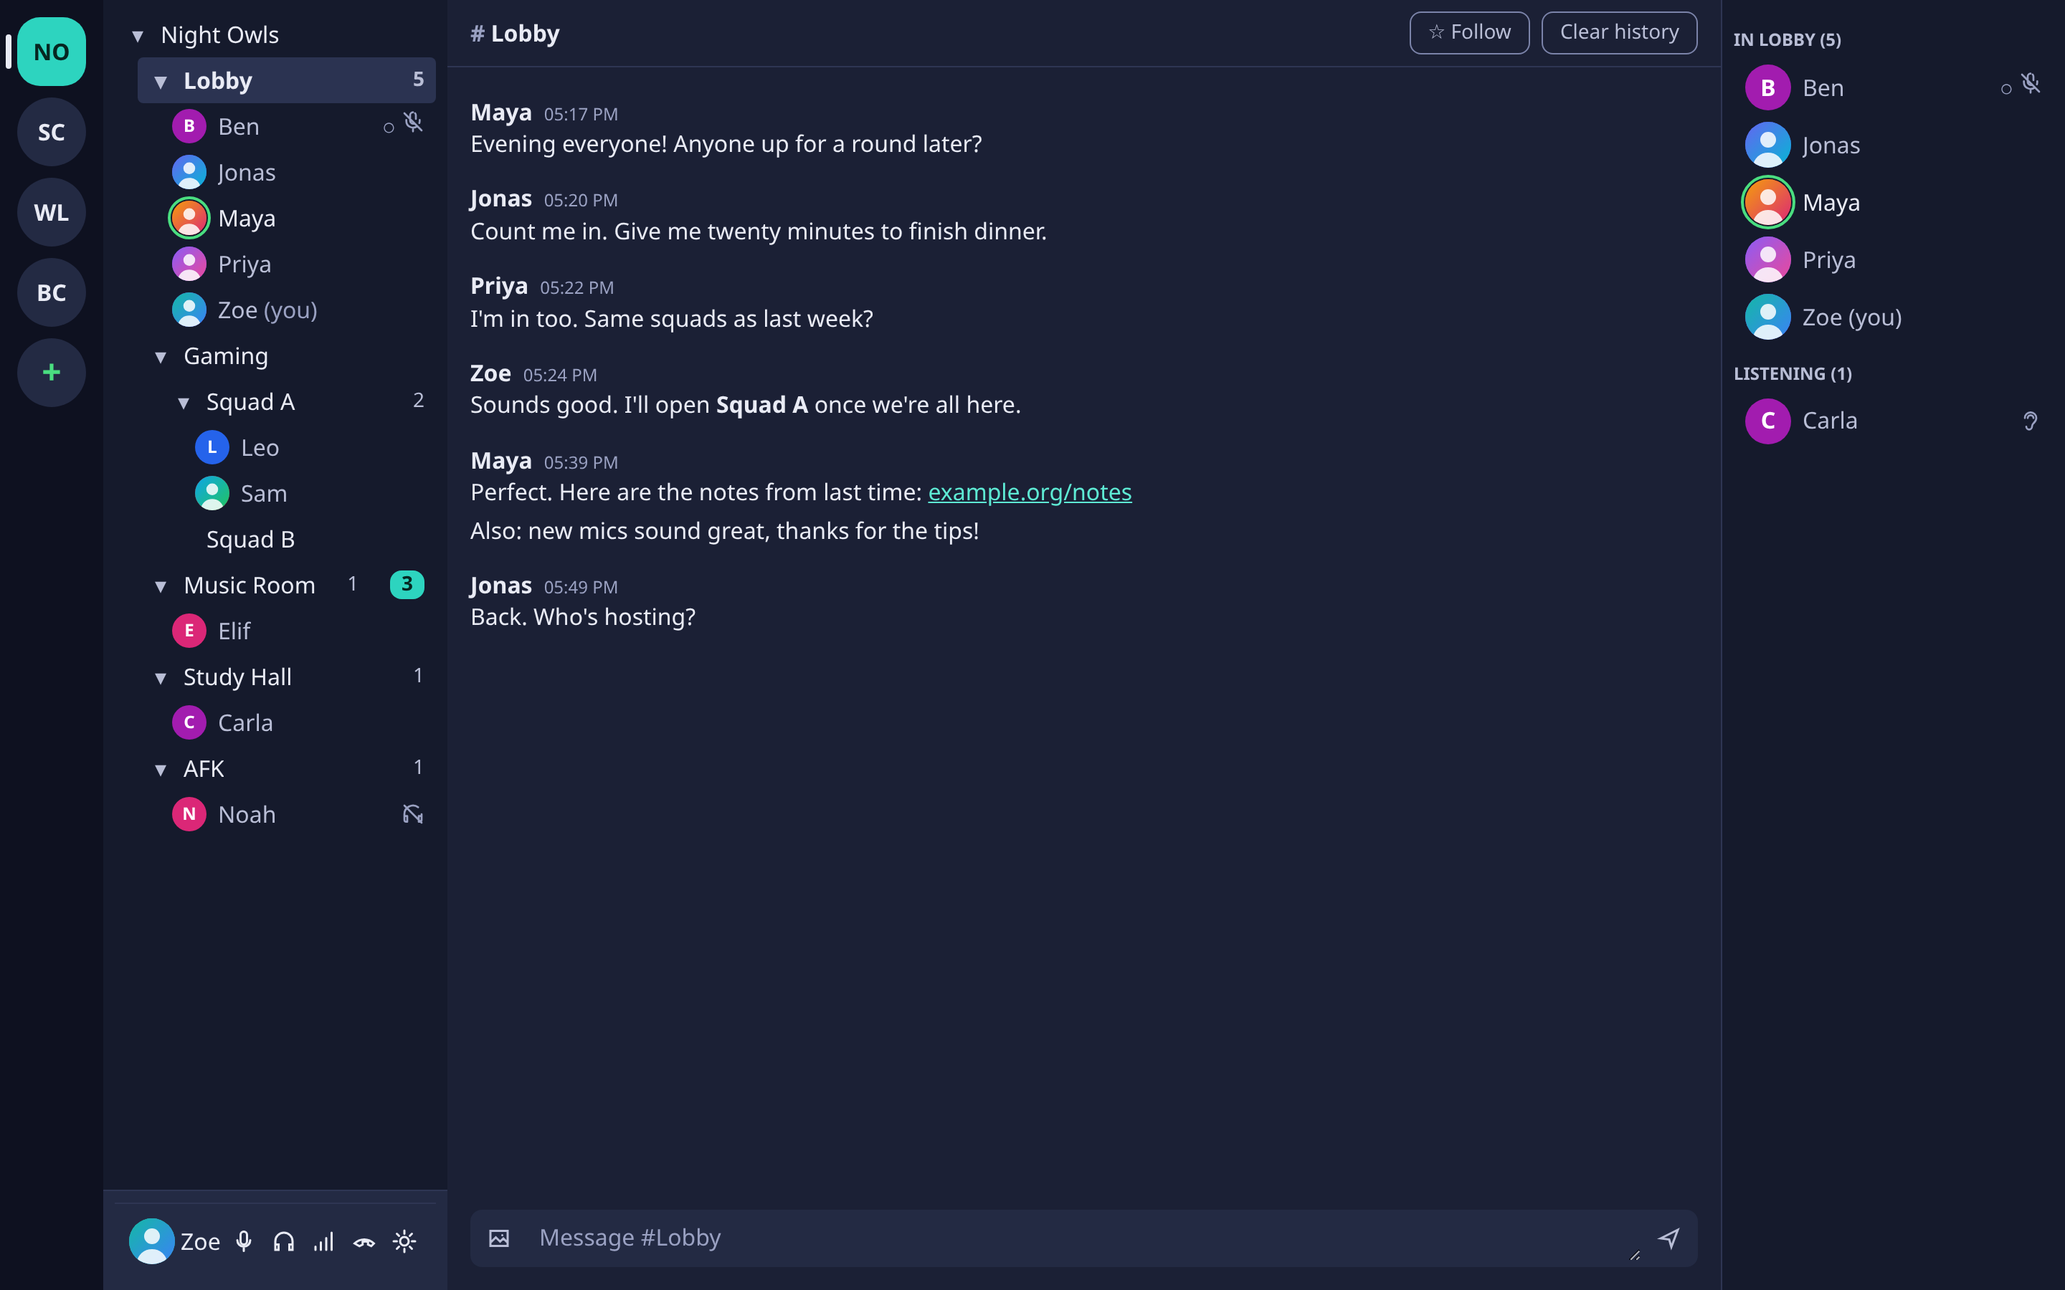
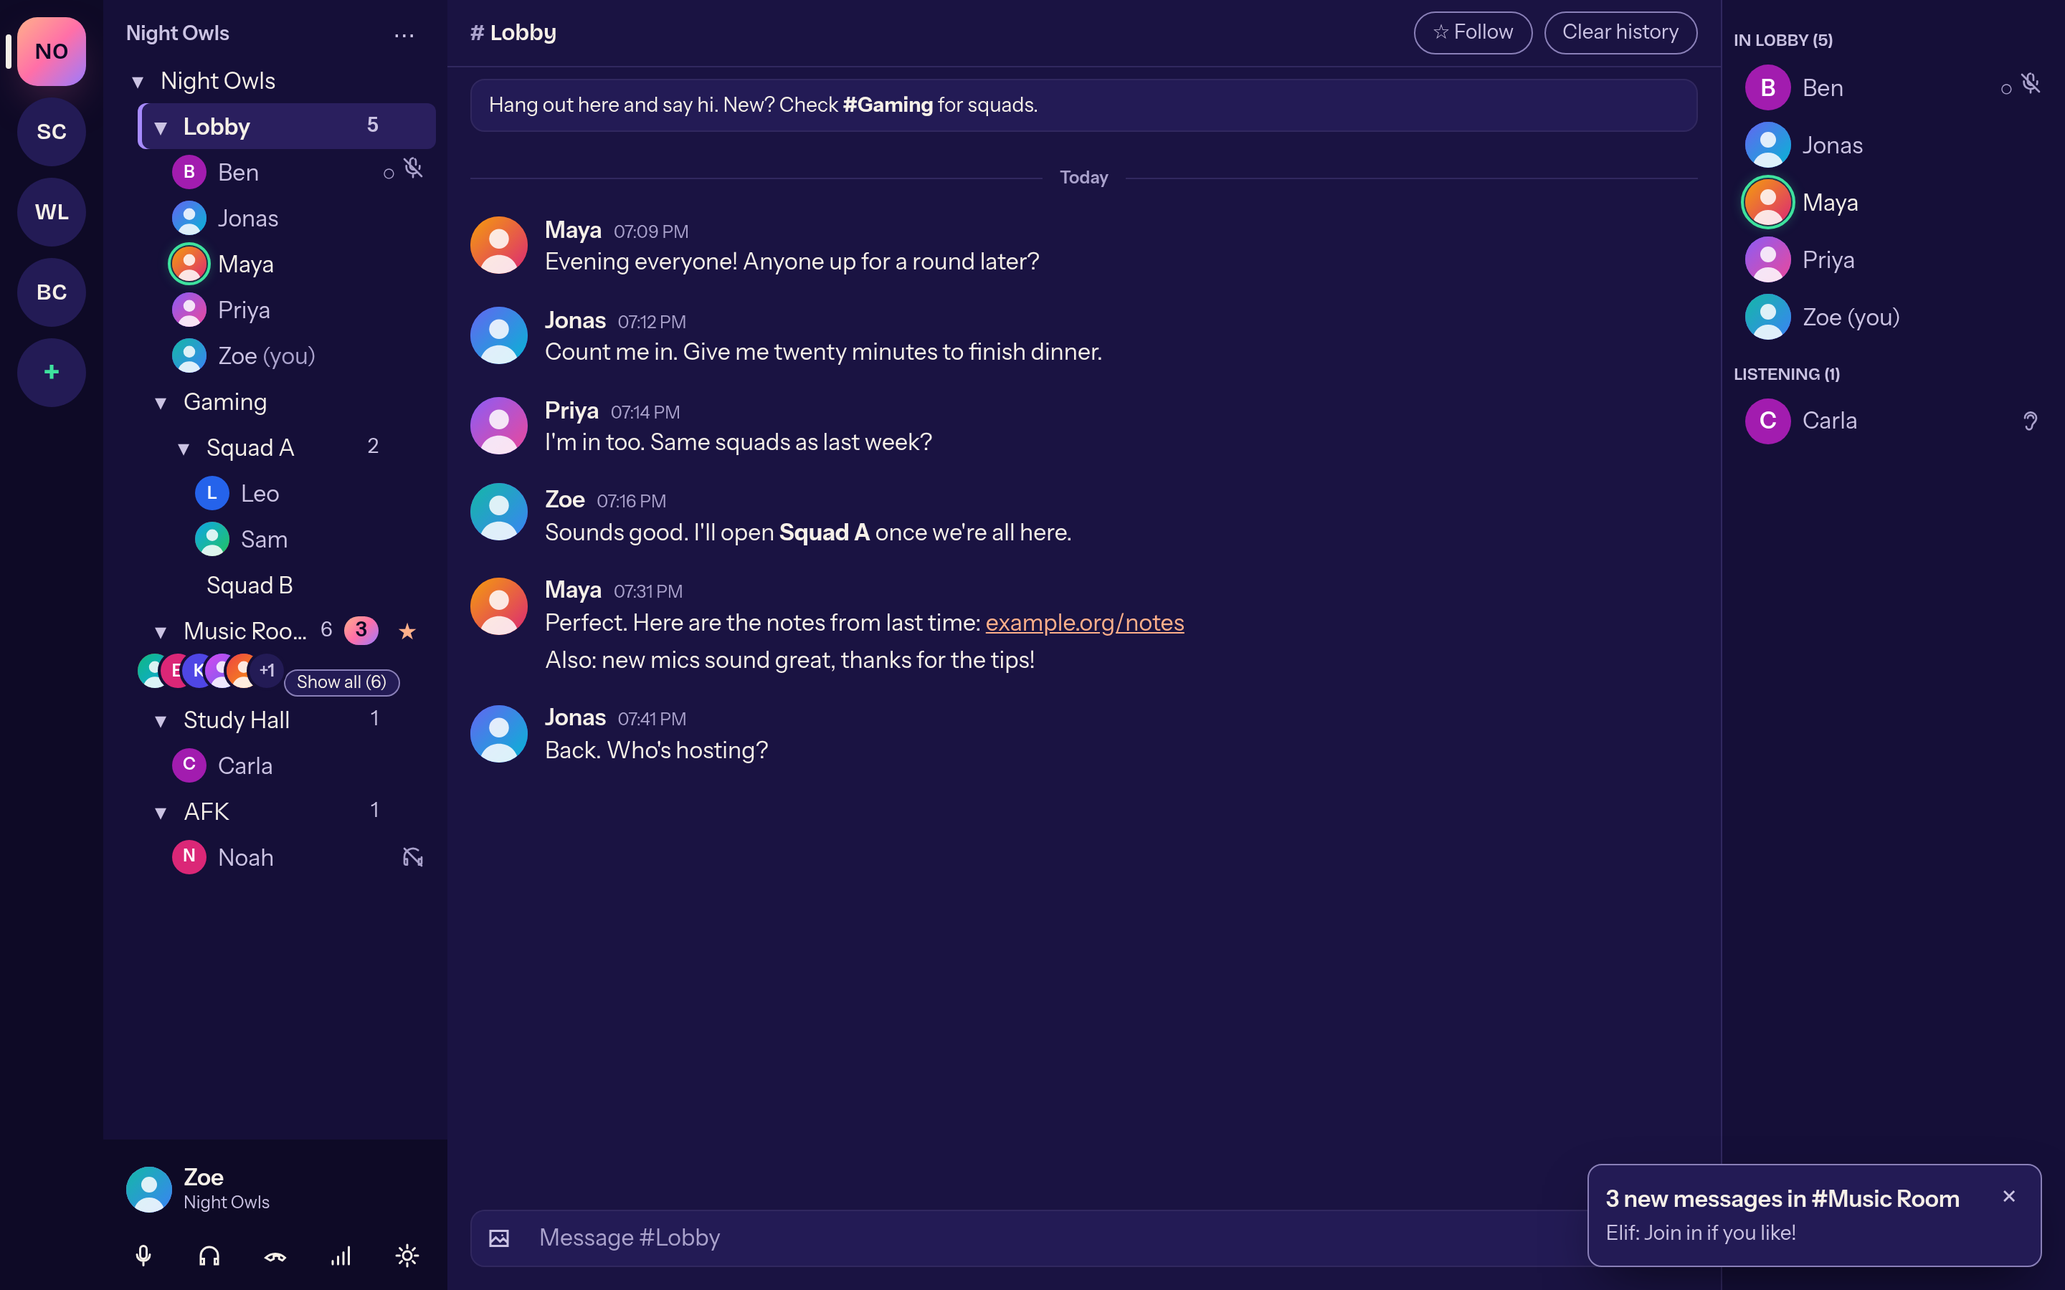
feat: new screenshots and features from the latest app build
Follow by star, notifications, Discord-style and compact chat, avatar
stack, rejoin after restart and start at login. Downloads point to the
Releases page now that test builds no longer run on branch pushes.

diff --git a/src/i18n/en.ts b/src/i18n/en.ts
@@ -6,7 +6,7 @@ export const en: Dict = {
   meta: {
     title: "Mumcord — modern voice chat for any Mumble server",
     description:
-      "Mumcord is a free, Discord-style desktop client for Mumble servers: follow channels, AI noise suppression, push-to-talk even on Wayland. For Linux, Windows and macOS. Open source, no telemetry.",
+      "Mumcord is a free, Discord-style desktop client for Mumble servers: follow channels, notifications, AI noise suppression, push-to-talk even on Wayland. For Linux, Windows and macOS. Open source, no telemetry.",
   },
   nav: {
     features: "Features",
@@ -34,6 +34,7 @@ export const en: Dict = {
     "No server changes",
     "Mumble 1.4 and newer",
     "Encrypted voice",
+    "Light & dark",
     "No telemetry",
     "Linux X11 & Wayland",
     "Windows 10/11",
@@ -61,19 +62,49 @@ export const en: Dict = {
         id: "follow",
         title: "Follow channels",
         body:
-          "Read a channel's chat without joining it. Followed channels show unread messages as a badge. Single click reads, double click joins.",
+          "Click the star and you read along in a channel without joining it — or follow all of them from the server menu. Unread messages show up as a badge.",
       },
       {
         id: "audio",
-        title: "Clean sound out of the box",
+        title: "Clear sound out of the box",
         body:
-          "AI noise suppression, echo cancellation and automatic gain are on. Bitrate follows the network: down when packets drop, back up when it recovers.",
+          "AI noise suppression, echo cancellation and automatic gain are on. The bitrate follows your network: down when packets get lost, back up when it recovers.",
       },
       {
         id: "trust",
-        title: "Certificates, made clear",
+        title: "Certificates, made readable",
         body:
           "On first connect you see the server's fingerprint and decide. If it changes later, Mumcord stops with a clear warning.",
+      },
+      {
+        id: "chat",
+        title: "Discord-style chat",
+        body:
+          "Avatars, grouped messages and Markdown, with a compact layout for busy channels. The channel description and welcome message are pinned on top; images are scaled to the server's limit.",
+      },
+      {
+        id: "notify",
+        title: "Notifications, your way",
+        body:
+          "New messages as a small in-app pop-up, a system notification, both or off. Plus short, quiet sounds per event — including when you join and hang up.",
+      },
+      {
+        id: "crowd",
+        title: "Big servers stay tidy",
+        body:
+          "From six people on, avatars stack up under the channel name. Hover for a profile preview, and drag the channel and member lists to the width you like.",
+      },
+      {
+        id: "people",
+        title: "Volume per person",
+        body:
+          "0 to 200 %, local mute. Remembered by the person's certificate — even after they rename.",
+      },
+      {
+        id: "reconnect",
+        title: "Back where you were",
+        body:
+          "After a dropout Mumcord restores your channel, mute/deafen state and followed channels. After a restart it offers to rejoin your last voice channel.",
       },
       {
         id: "identity",
@@ -82,20 +113,10 @@ export const en: Dict = {
           "The client certificate lives in your system's secure storage. Import from the official Mumble client via PKCS#12, export any time.",
       },
       {
-        id: "chat",
-        title: "Chat with Markdown",
+        id: "setup",
+        title: "Ready in a minute",
         body:
-          "Bold, italic, code, links. Paste or drop images — they're scaled to the server's limit. Everything from the server is sanitized.",
-      },
-      {
-        id: "people",
-        title: "Volume per person",
-        body: "0 to 200 %, local mute. Remembered by the person's certificate — even after a rename.",
-      },
-      {
-        id: "reconnect",
-        title: "Back where you were",
-        body: "After a dropped connection Mumcord restores your channel, mute/deafen state and followed channels.",
+          "The setup wizard only asks for identity, microphone and talk mode. If you like, Mumcord opens mumble:// links and starts when you log in.",
       },
       {
         id: "a11y",
@@ -139,13 +160,17 @@ export const en: Dict = {
     label: "04 — Take a tour",
     title: "A window that feels familiar.",
     items: [
-      { src: "wizard-1-identity", caption: "Setup in about a minute: identity, microphone, talk mode." },
-      { src: "wizard-2-microphone", caption: "A mic test that plays your own voice back." },
-      { src: "follow-unread-badge", caption: "Followed channels with an unread badge." },
-      { src: "dialog-certificate-trust", caption: "Trust on first use, with fingerprint." },
-      { src: "settings-03-voice-dark", caption: "Voice activation or push-to-talk." },
+      { src: "wizard-1-identity", caption: "Set up in about a minute: identity, microphone, talk mode." },
+      { src: "wizard-3-talk-mode", caption: "Voice activation or push-to-talk, mumble:// links and start at login." },
+      { src: "follow-unread-badge", caption: "Follow channels with a star, unread messages as a badge." },
+      { src: "notification-toast", caption: "A small pop-up announces new messages from other channels." },
+      { src: "chat-compact", caption: "Compact chat layout: time, name and message on one line." },
+      { src: "channel-avatar-stack", caption: "Crowded channels show a stack of avatars instead of a long list." },
+      { src: "banner-rejoin", caption: "After a restart, back into your last voice channel." },
+      { src: "dialog-certificate-trust", caption: "Trust on first contact, with the fingerprint." },
+      { src: "settings-07-sounds-notifications-dark", caption: "Sounds and notifications, set per event." },
       { src: "settings-02-audio-dark", caption: "Switch devices without reconnecting." },
-      { src: "main-light", caption: "Light theme, fully supported." },
+      { src: "main-light", caption: "A light theme that's fully there." },
       { src: "settings-06-language-dark", caption: "English, German, Spanish." },
     ],
   },
@@ -155,10 +180,10 @@ export const en: Dict = {
     body: "The roadmap is a proposal and may change. Mobile apps and a web version are not planned. Nothing server-side will ever be required.",
     now: "now",
     steps: [
-      { tag: "Epic 1 · 1a", title: "Everyday client", body: "Everything on this page. Unsigned test builds.", now: true },
+      { tag: "Epic 1 · 1a", title: "Everyday client", body: "Everything on this page. Unsigned builds for Linux, Windows and macOS.", now: true },
       { tag: "Epic 1 · 1b", title: "Positional audio & overlay", body: "Mumble Link with the official game plugins, floating overlay." },
       { tag: "Epic 2", title: "Several servers at once", body: "Read along on all of them, talk on one." },
-      { tag: "Epic 3", title: "Comfort", body: "Global hotkeys, tray menu, desktop notifications, whisper, server browser." },
+      { tag: "Epic 3", title: "Comfort", body: "Global hotkeys, full tray menu, import from the official client, whisper, server browser." },
       { tag: "Epic 4", title: "Admin", body: "ACLs, bans, channel management." },
       { tag: "Epic 5", title: "Distribution", body: "Signed installers, auto-update, opt-in crash reports." },
     ],
@@ -173,12 +198,12 @@ export const en: Dict = {
     allReleases: "All releases",
     checksums: "Verify SHA256SUMS",
     noRelease:
-      "There's no official release yet. Unsigned test builds are produced on every push by GitHub Actions — log in, open the latest successful “Test builds” run and grab the artifact for your system.",
-    testBuilds: "Test builds on GitHub Actions",
+      "The first release isn't published yet. Releases are built from version tags, tested on fresh machines and then appear on GitHub — this page picks them up automatically.",
+    testBuilds: "Releases on GitHub",
     howTo: "Installation guide",
     platforms: {
       windows: { name: "Windows", sub: "10 / 11 · installer (.exe)", warn: "SmartScreen warns about an unknown publisher: “More info” → “Run anyway”." },
-      macos: { name: "macOS", sub: "Apple Silicon & Intel · .dmg", warn: "Gatekeeper blocks the first launch: right-click → “Open”, or allow it under Privacy & Security." },
+      macos: { name: "macOS", sub: "Universal, Apple Silicon & Intel · .dmg", warn: "Gatekeeper blocks the first launch: right-click → “Open”, or allow it under Privacy & Security." },
       linux: { name: "Linux", sub: "X11 & Wayland · AppImage", warn: "chmod +x Mumcord_*.AppImage — needs WebKitGTK 4.1 and a Secret Service keyring." },
     },
     unsigned: "Builds are unsigned for now. Signed installers arrive with Epic 5.",

diff --git a/src/i18n/de.ts b/src/i18n/de.ts
@@ -4,7 +4,7 @@ export const de = {
   meta: {
     title: "Mumcord — moderner Voice-Chat für jeden Mumble-Server",
     description:
-      "Mumcord ist ein freier Desktop-Client im Discord-Stil für Mumble-Server: Kanäle folgen, KI-Rauschunterdrückung, Push-to-Talk auch unter Wayland. Für Linux, Windows und macOS. Open Source, ohne Telemetrie.",
+      "Mumcord ist ein freier Desktop-Client im Discord-Stil für Mumble-Server: Kanälen folgen, Benachrichtigungen, KI-Rauschunterdrückung, Push-to-Talk auch unter Wayland. Für Linux, Windows und macOS. Open Source, ohne Telemetrie.",
   },
   nav: {
     features: "Funktionen",
@@ -32,6 +32,7 @@ export const de = {
     "Kein Server-Umbau",
     "Mumble 1.4 und neuer",
     "Verschlüsselte Sprache",
+    "Hell & dunkel",
     "Keine Telemetrie",
     "Linux X11 & Wayland",
     "Windows 10/11",
@@ -60,7 +61,7 @@ export const de = {
         id: "follow",
         title: "Kanälen folgen",
         body:
-          "Lies den Chat eines Kanals, ohne beizutreten. Gefolgte Kanäle zeigen ungelesene Nachrichten als Badge. Einfacher Klick liest, Doppelklick tritt bei.",
+          "Ein Klick auf den Stern, und du liest einen Kanal mit, ohne beizutreten — oder folgst über das Server-Menü gleich allen. Ungelesenes steht als Badge dran.",
       },
       {
         id: "audio",
@@ -75,16 +76,22 @@ export const de = {
           "Beim ersten Verbinden siehst du den Fingerabdruck des Servers und entscheidest. Ändert er sich später, stoppt Mumcord mit einer klaren Warnung.",
       },
       {
-        id: "identity",
-        title: "Deine Identität bleibt deine",
+        id: "chat",
+        title: "Chat im Discord-Stil",
         body:
-          "Das Client-Zertifikat liegt im sicheren Speicher deines Systems. Import aus dem offiziellen Mumble-Client per PKCS#12, Export jederzeit.",
+          "Avatare, gruppierte Nachrichten und Markdown. Für volle Kanäle gibt es ein kompaktes Layout. Kanalbeschreibung und Willkommensnachricht sind oben angeheftet; Bilder werden auf das Server-Limit skaliert.",
       },
       {
-        id: "chat",
-        title: "Chat mit Markdown",
+        id: "notify",
+        title: "Benachrichtigungen, wie du willst",
         body:
-          "Fett, kursiv, Code, Links. Bilder einfügen oder reinziehen — sie werden auf das Limit des Servers skaliert. Alles vom Server wird bereinigt.",
+          "Neue Nachrichten als kleines Pop-up in der App, als Systembenachrichtigung, beides oder gar nicht. Dazu kurze, leise Töne pro Ereignis — auch beim Beitreten und Auflegen.",
+      },
+      {
+        id: "crowd",
+        title: "Auch große Server bleiben übersichtlich",
+        body:
+          "Ab sechs Leuten stapeln sich die Avatare unter dem Kanalnamen. Profilvorschau beim Drüberfahren, Kanal- und Mitgliederliste lassen sich in der Breite ziehen.",
       },
       {
         id: "people",
@@ -96,7 +103,19 @@ export const de = {
         id: "reconnect",
         title: "Kommt zurück, wo du warst",
         body:
-          "Nach einem Verbindungsabbruch stellt Mumcord Kanal, Stumm/Taub-Status und gefolgte Kanäle wieder her.",
+          "Nach einem Abbruch stellt Mumcord Kanal, Stumm/Taub-Status und gefolgte Kanäle wieder her. Nach einem Neustart bietet es an, deinem letzten Sprachkanal wieder beizutreten.",
+      },
+      {
+        id: "identity",
+        title: "Deine Identität bleibt deine",
+        body:
+          "Das Client-Zertifikat liegt im sicheren Speicher deines Systems. Import aus dem offiziellen Mumble-Client per PKCS#12, Export jederzeit.",
+      },
+      {
+        id: "setup",
+        title: "In einer Minute startklar",
+        body:
+          "Der Einrichtungsassistent fragt nur Identität, Mikrofon und Sprechmodus ab. Auf Wunsch öffnet Mumcord mumble://-Links und startet beim Anmelden mit.",
       },
       {
         id: "a11y",
@@ -141,11 +160,15 @@ export const de = {
     title: "Ein Fenster, das sich vertraut anfühlt.",
     items: [
       { src: "wizard-1-identity", caption: "Einrichtung in etwa einer Minute: Identität, Mikrofon, Sprechmodus." },
-      { src: "wizard-2-microphone", caption: "Mikrofontest, der dir deine eigene Stimme vorspielt." },
-      { src: "follow-unread-badge", caption: "Gefolgte Kanäle mit Badge für Ungelesenes." },
+      { src: "wizard-3-talk-mode", caption: "Sprachaktivierung oder Push-to-Talk, mumble://-Links und Autostart." },
+      { src: "follow-unread-badge", caption: "Kanälen per Stern folgen, Ungelesenes als Badge." },
+      { src: "notification-toast", caption: "Ein kleines Pop-up meldet neue Nachrichten aus anderen Kanälen." },
+      { src: "chat-compact", caption: "Kompaktes Chat-Layout: Zeit, Name und Nachricht in einer Zeile." },
+      { src: "channel-avatar-stack", caption: "Volle Kanäle zeigen einen Avatar-Stapel statt einer langen Liste." },
+      { src: "banner-rejoin", caption: "Nach dem Neustart zurück in den letzten Sprachkanal." },
       { src: "dialog-certificate-trust", caption: "Vertrauen beim ersten Kontakt, mit Fingerabdruck." },
-      { src: "settings-03-voice-dark", caption: "Sprachaktivierung oder Push-to-Talk." },
-      { src: "settings-02-audio-dark", caption: "Geräte wechseln ohne neu zu verbinden." },
+      { src: "settings-07-sounds-notifications-dark", caption: "Töne und Benachrichtigungen, pro Ereignis einstellbar." },
+      { src: "settings-02-audio-dark", caption: "Geräte wechseln, ohne neu zu verbinden." },
       { src: "main-light", caption: "Helles Design, vollwertig." },
       { src: "settings-06-language-dark", caption: "Deutsch, Englisch, Spanisch." },
     ],
@@ -156,10 +179,10 @@ export const de = {
     body: "Die Roadmap ist ein Vorschlag und kann sich ändern. Mobile Apps und eine Web-Version sind nicht geplant. Serverseitig wird nie etwas nötig sein.",
     now: "jetzt",
     steps: [
-      { tag: "Epic 1 · 1a", title: "Alltags-Client", body: "Alles auf dieser Seite. Test-Builds, unsigniert.", now: true },
+      { tag: "Epic 1 · 1a", title: "Alltags-Client", body: "Alles auf dieser Seite. Unsignierte Builds für Linux, Windows und macOS.", now: true },
       { tag: "Epic 1 · 1b", title: "Positional Audio & Overlay", body: "Mumble Link mit den offiziellen Spiel-Plugins, schwebendes Overlay." },
       { tag: "Epic 2", title: "Mehrere Server gleichzeitig", body: "Auf allen Servern mitlesen, auf einem sprechen." },
-      { tag: "Epic 3", title: "Komfort", body: "Globale Hotkeys, Tray-Menü, Desktop-Benachrichtigungen, Flüstern, Server-Browser." },
+      { tag: "Epic 3", title: "Komfort", body: "Globale Hotkeys, volles Tray-Menü, Import aus dem offiziellen Client, Flüstern, Server-Browser." },
       { tag: "Epic 4", title: "Admin", body: "ACLs, Banns, Kanalverwaltung." },
       { tag: "Epic 5", title: "Auslieferung", body: "Signierte Installer, Auto-Update, Absturzberichte nur mit Zustimmung." },
     ],
@@ -174,12 +197,12 @@ export const de = {
     allReleases: "Alle Releases",
     checksums: "SHA256SUMS prüfen",
     noRelease:
-      "Es gibt noch kein offizielles Release. Unsignierte Test-Builds entstehen bei jedem Push über GitHub Actions — einloggen, den letzten erfolgreichen Lauf „Test builds“ öffnen und das Artefakt für dein System laden.",
-    testBuilds: "Test-Builds auf GitHub Actions",
+      "Das erste Release ist noch nicht veröffentlicht. Releases entstehen aus Versions-Tags, werden auf frischen Rechnern getestet und erscheinen dann auf GitHub — diese Seite zeigt sie automatisch an.",
+    testBuilds: "Releases auf GitHub",
     howTo: "Installationsanleitung",
     platforms: {
       windows: { name: "Windows", sub: "10 / 11 · Installer (.exe)", warn: "SmartScreen warnt vor unbekanntem Herausgeber: „Weitere Informationen“ → „Trotzdem ausführen“." },
-      macos: { name: "macOS", sub: "Apple Silicon & Intel · .dmg", warn: "Gatekeeper blockiert beim ersten Start: Rechtsklick → „Öffnen“ oder unter Datenschutz & Sicherheit erlauben." },
+      macos: { name: "macOS", sub: "Universal, Apple Silicon & Intel · .dmg", warn: "Gatekeeper blockiert beim ersten Start: Rechtsklick → „Öffnen“ oder unter Datenschutz & Sicherheit erlauben." },
       linux: { name: "Linux", sub: "X11 & Wayland · AppImage", warn: "chmod +x Mumcord_*.AppImage — braucht WebKitGTK 4.1 und einen Secret-Service-Schlüsselbund." },
     },
     unsigned: "Builds sind derzeit unsigniert. Signierte Installer kommen mit Epic 5.",

diff --git a/src/lib/release.ts b/src/lib/release.ts
@@ -6,7 +6,6 @@ export const REPO = "ToBee94/mumcord";
 export const REPO_URL = `https://github.com/${REPO}`;
 export const RELEASES_URL = `${REPO_URL}/releases`;
 export const LATEST_URL = `${REPO_URL}/releases/latest`;
-export const ACTIONS_URL = `${REPO_URL}/actions`;
 export const WIKI_URL = `${REPO_URL}/wiki`;
 export const ISSUES_URL = `${REPO_URL}/issues`;
 
